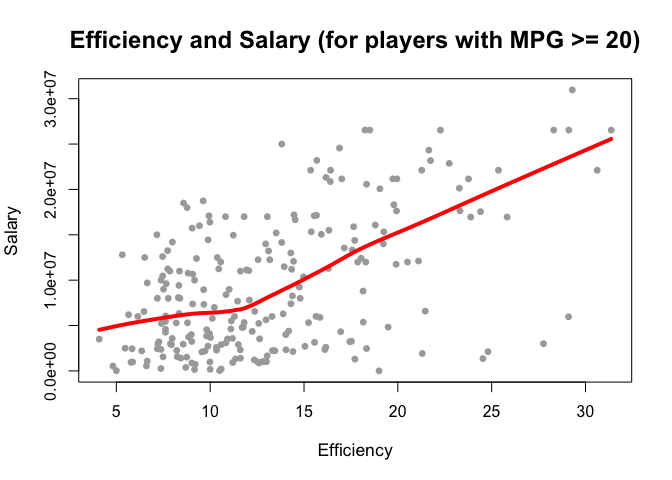
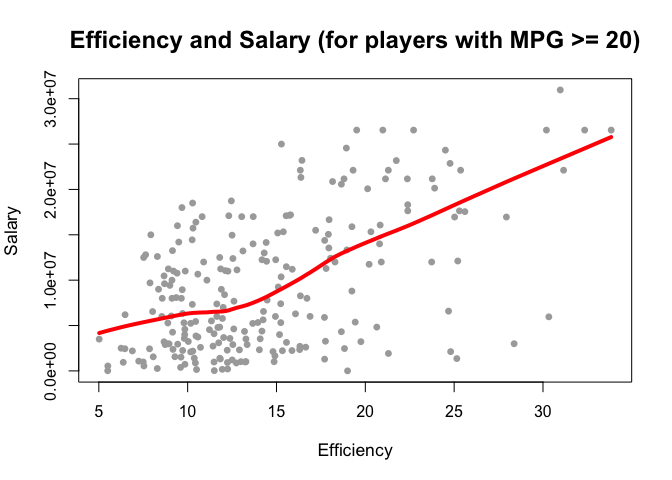
hw02: complete

diff --git a/hw02/hw02-vitali-shypko.md b/hw02/hw02-vitali-shypko.md
@@ -1,7 +1,7 @@
 HW 02 - Basics of Data Frames
 ================
 Vitali Shypko
-9/24/2017
+9/25/2017
 
 ### Import the data in R
 
@@ -32,7 +32,8 @@ colClass_csv = c("character", # Player
                  "integer",   # BLK
                  "integer")   # TO
 
-players_stat_base <- read.csv('data/nba2017-player-statistics.csv', stringsAsFactors = FALSE, 
+players_stat_base <- read.csv('data/nba2017-player-statistics.csv',
+                              stringsAsFactors = FALSE,
                               colClasses = colClass_csv)
 str(players_stat_base)
 ```
@@ -182,7 +183,7 @@ str(players_stat_readr)
 ### Right after importing the data
 
 ``` r
-# replace all the occurences of "R" in Experience column and convert the column to integers.
+# replace all the occurences of "R" in Experience column and convert the column to integers
 # column conversion happens implicitly
 players_stat_base$Experience <- as.integer(replace(players_stat_base$Experience,
                                                    players_stat_base$Experience=="R", 1))
@@ -197,7 +198,9 @@ players_stat_readr$Experience <- as.integer(replace(players_stat_readr$Experienc
 ``` r
 players_stat_base$Missed_FG = players_stat_base$FGA - players_stat_base$FGM
 players_stat_base$Missed_FT = players_stat_base$FTA - players_stat_base$FTM
-players_stat_base$PTS = players_stat_base$Points2 + players_stat_base$Points3 + players_stat_base$FTM + players_stat_base$FGM
+players_stat_base$PTS = (players_stat_base$FTM 
+                        + 2 * players_stat_base$Points2 
+                        + 3 * players_stat_base$Points3)
 players_stat_base$REB = players_stat_base$OREB + players_stat_base$DREB
 players_stat_base$MPG = players_stat_base$MIN / players_stat_base$GP
 Missed_FG = players_stat_base$Missed_FG
@@ -218,7 +221,7 @@ summary(EFF)
 ```
 
     ##    Min. 1st Qu.  Median    Mean 3rd Qu.    Max. 
-    ##  -0.600   5.000   8.016   9.322  12.373  31.370
+    ##  -0.600   5.452   9.090  10.137  13.247  33.840
 
 ``` r
 hist(EFF, main = "Histogram of Efficiency (EFF)", xlab = "EFF", ylab = "Frequency", col = "gray")
@@ -227,31 +230,32 @@ hist(EFF, main = "Histogram of Efficiency (EFF)", xlab = "EFF", ylab = "Frequenc
 ![](hw02-vitali-shypko_files/figure-markdown_github-ascii_identifiers/unnamed-chunk-4-1.png)
 
 ``` r
-# Player name, team, salary, and EFF value of the top-10 players by EFF in decreasing order
-head(players_stat_base[order(players_stat_base$EFF, decreasing = TRUE), c("Player", "Team", "Salary", "EFF")], n = 10)
+# player name, team, salary, and EFF value of the top-10 players by EFF in decreasing order
+head(players_stat_base[order(players_stat_base$EFF, decreasing = TRUE), 
+                       c("Player", "Team", "Salary", "EFF")], n = 10)
 ```
 
     ##                    Player Team   Salary      EFF
-    ## 305     Russell Westbrook  OKC 26540100 31.37037
-    ## 355         Anthony Davis  NOP 22116750 30.62667
-    ## 28           LeBron James  CLE 30963450 29.29730
-    ## 256          James Harden  HOU 26540100 29.11111
-    ## 404    Karl-Anthony Towns  MIN  5960160 29.09756
-    ## 228          Kevin Durant  GSW 26540100 28.30645
-    ## 74  Giannis Antetokounmpo  MIL  2995421 27.76250
-    ## 359      DeMarcus Cousins  NOP 16957900 25.82353
+    ## 305     Russell Westbrook  OKC 26540100 33.83951
+    ## 256          James Harden  HOU 26540100 32.34568
+    ## 355         Anthony Davis  NOP 22116750 31.16000
+    ## 28           LeBron James  CLE 30963450 30.97297
+    ## 404    Karl-Anthony Towns  MIN  5960160 30.32927
+    ## 228          Kevin Durant  GSW 26540100 30.19355
+    ## 74  Giannis Antetokounmpo  MIL  2995421 28.37500
+    ## 359      DeMarcus Cousins  NOP 16957900 27.94118
+    ## 110          Jimmy Butler  CHI 17552209 25.60526
     ## 119      Hassan Whiteside  MIA 22116750 25.36364
-    ## 292           Rudy Gobert  UTA  2121288 24.80247
 
 ``` r
-# Provide the names of the players that have a negative EFF.
+# the names of the players that have a negative EFF.
 players_stat_base[players_stat_base$EFF < 0, "Player"]
 ```
 
     ## [1] "Patricio Garino"
 
 ``` r
-# Use the function cor() to compute the correlation coefficients between EFF and all the variables used in the EFF formula.
+# calculate correlation coefficients between EFF and all the variables used in the EFF formula (using cor())
 EFF_PTS = cor(EFF, PTS)
 EFF_REB = cor(EFF, REB)
 EFF_STL = cor(EFF, STL)
@@ -263,16 +267,22 @@ EFF_TO = -cor(EFF, TO)
 ```
 
 ``` r
-# Display the computed correlations in descending order, either in a vector or a data frame. And create a barchart with the correlations (bars in decreasing order) like the one below.
-EFF_cor <- sort(c(EFF_PTS, EFF_REB, EFF_STL, EFF_AST, EFF_BLK, EFF_Missed_FT, EFF_Missed_FG, EFF_TO), decreasing = TRUE)
+# display the computed correlations in descending order
+EFF_cor <- sort(c(EFF_PTS, EFF_REB, EFF_STL, EFF_AST, EFF_BLK, EFF_Missed_FT, EFF_Missed_FG, EFF_TO),
+                decreasing = TRUE)
 EFF_cor
 ```
 
-    ## [1]  0.8488828  0.7891977  0.6742724  0.6442939  0.6035932 -0.7298862
-    ## [7] -0.7505338 -0.7829069
+    ## [1]  0.8588644  0.7634501  0.6957286  0.6689232  0.5679571 -0.7271456
+    ## [7] -0.7722477 -0.8003289
 
 ``` r
-barplot(EFF_cor, main = "Correlations between Player Stats and EFF", col = c("gray", "gray", "gray", "gray", "gray", "red", "red", "red"))
+# Create a barchart with the correlations
+barplot(EFF_cor, main = "Correlations between Player Stats and EFF",
+        ylim = c(-1, 1),
+        col = c("gray", "gray", "gray", "gray", "gray", "red", "red", "red"),
+        names.arg = c("PTS", "REB", "STL", "AST", "BLK", "Missed_FT", "Missed_FG", "TO"),
+        cex.names = 0.68)
 ```
 
 ![](hw02-vitali-shypko_files/figure-markdown_github-ascii_identifiers/unnamed-chunk-8-1.png)
@@ -283,7 +293,9 @@ barplot(EFF_cor, main = "Correlations between Player Stats and EFF", col = c("gr
 
 ``` r
 # a scatterplot between Efficiency and Salary
-plot(players_stat_base$EFF, players_stat_base$Salary, pch=16, col = "darkgray", cex = 0.95, cex.lab = 1.1, cex.main = 1.5, xlab = "Efficiency", ylab = "Salary", main = "Efficiency and Salary")
+plot(players_stat_base$EFF, players_stat_base$Salary, pch=16, col = "darkgray", 
+     cex = 0.95, cex.lab = 1.1, cex.main = 1.5,
+     xlab = "Efficiency", ylab = "Salary", main = "Efficiency and Salary")
 lines(lowess(players_stat_base$EFF, players_stat_base$Salary), lwd = "4", col = "red")
 ```
 
@@ -293,13 +305,16 @@ lines(lowess(players_stat_base$EFF, players_stat_base$Salary), lwd = "4", col = 
 cor(players_stat_base$EFF, players_stat_base$Salary)
 ```
 
-    ## [1] 0.6430885
+    ## [1] 0.655624
 
 There seems to be a dependency between Salary and Efficiency. In general, the more efficient a player is, the higher his salary is.
 
 ``` r
+# players that have an MPG value of 20 or more minutes per game
 players2 <- players_stat_base[players_stat_base$MPG >= 20, ]
-plot(players2$EFF, players2$Salary, pch=16, col = "darkgray", cex = 0.95, cex.lab = 1.1, cex.main = 1.5, xlab = "Efficiency", ylab = "Salary", main = "Efficiency and Salary (for players with MPG >= 20)")
+plot(players2$EFF, players2$Salary, pch=16, col = "darkgray",
+     cex = 0.95, cex.lab = 1.1, cex.main = 1.5,
+     xlab = "Efficiency", ylab = "Salary", main = "Efficiency and Salary (for players with MPG >= 20)")
 lines(lowess(players2$EFF, players2$Salary), lwd = "4", col = "red")
 ```
 
@@ -309,9 +324,9 @@ lines(lowess(players2$EFF, players2$Salary), lwd = "4", col = "red")
 cor(players2$EFF, players2$Salary)
 ```
 
-    ## [1] 0.522513
+    ## [1] 0.5367224
 
-What can you say about the relationship between these two variables for the set of “more established players”?
+From the provided reading I found out that there is a cap for NBA player salaries. Rookies can't get paid more than a set dollar amount. That salary cap goes up gradually with the years of experience in the league. Since rookies tend to play less games, most of them are not included in the set of "more established players". At the level of efficiency of about 12, we see that the salary starts to grow steeper than for players with the efficiency of less than 12.
 
 ------------------------------------------------------------------------
 

diff --git a/hw02/data/nba2017-player-statistics-dictionary.md b/hw02/data/nba2017-player-statistics-dictionary.md
@@ -1,8 +1,8 @@
 ### HW02 - Basics of Data Frames
 ### Data dictionary for player statistics
 
-Main source: www.basketball-reference.com
-Sample link for the data source of a given team (Golden State Warriors): https://www.basketball-reference.com/teams/GSW/2017.html
+#### Main source: www.basketball-reference.com
+#### Sample link for the data source of a given team (Golden State Warriors): https://www.basketball-reference.com/teams/GSW/2017.html
 
 * The data is about NBA players' statistics for the 2016/2017 season.
 * There are 441 rows in the .csv file.

diff --git a/hw02/README.md b/hw02/README.md
@@ -3,4 +3,6 @@
 - Special instructions for any user (if necessary)
 - Special instructions for graders (if necessary)
 - Links to any resources that you used to complete the HW
+    https://www.sbnation.com/nba/2016/7/2/12087368/nba-free-agency-2016-money-nfl-stars-explainer-andrew-luck-mike-conley
 - List of references that you used to complete the HW
+    R documentation
